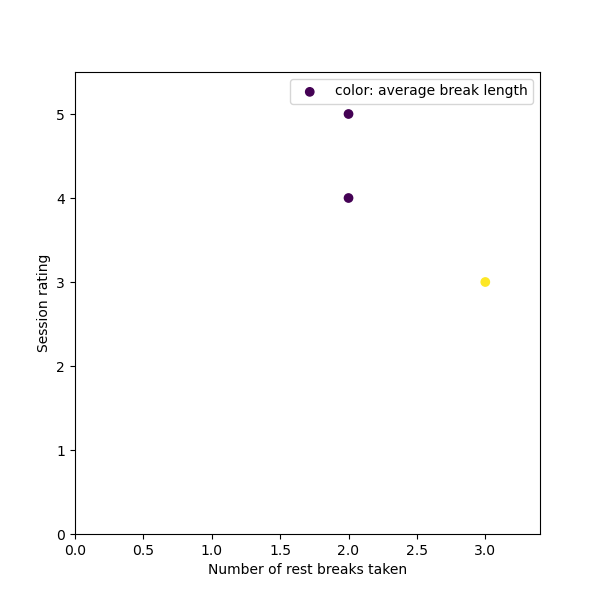
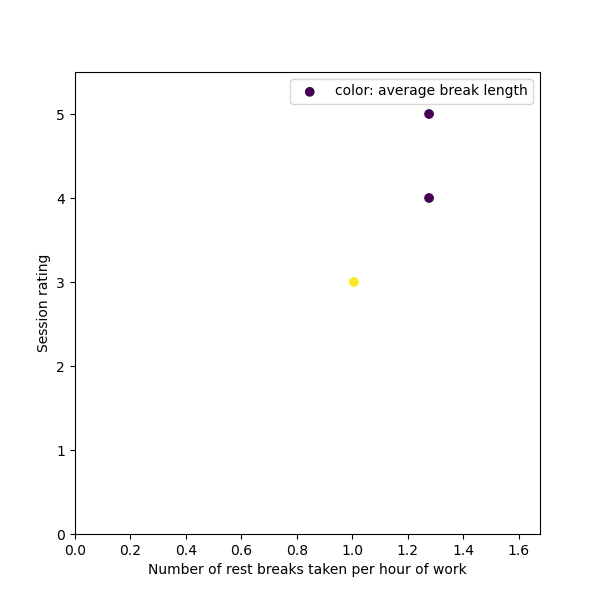
worked on presentation and improved graph

diff --git a/scripts/graph_generator.py b/scripts/graph_generator.py
@@ -122,7 +122,7 @@ def get_composite_stats():
         __temp[2:11] = break_statistics
         __temp[11] = session_data[-2][0]
         study_stats[fileindex-bad_file_count] = tuple(__temp)
-    
+
     study_stats.sort(order="start time")
     return study_stats[:-bad_file_count]
 
@@ -159,12 +159,13 @@ def render_stats(composite_stats):
     #break count vs rating
     fig,ax = plt.subplots()
     y = np.array([composite_stats[i][1] for i in range(len(composite_stats))])
-    x = np.array([composite_stats[i][3] for i in range(len(composite_stats))])
+    x = np.array([composite_stats[i][3]
+                    /(((composite_stats[i][11]-composite_stats[i][0])-composite_stats[i][5]-composite_stats[i][8])/np.timedelta64(1,'h')) for i in range(len(composite_stats))])
     s = np.array([composite_stats[i][2]/np.timedelta64(5,'s') for i in range(len(composite_stats))])
     c = np.array([composite_stats[i][4]/np.timedelta64(1,'s') for i in range(len(composite_stats))])
     ax.scatter(x=x,y=y,c=c)
     ax.set_xlim(0,max(x)+.4)
-    ax.set_xlabel("Number of rest breaks taken")
+    ax.set_xlabel("Number of rest breaks taken per hour of work")
     ax.set_ylim(0,5.5)
     ax.set_ylabel("Session rating")
     ax.legend(loc='best',labels=["color: average break length"])
